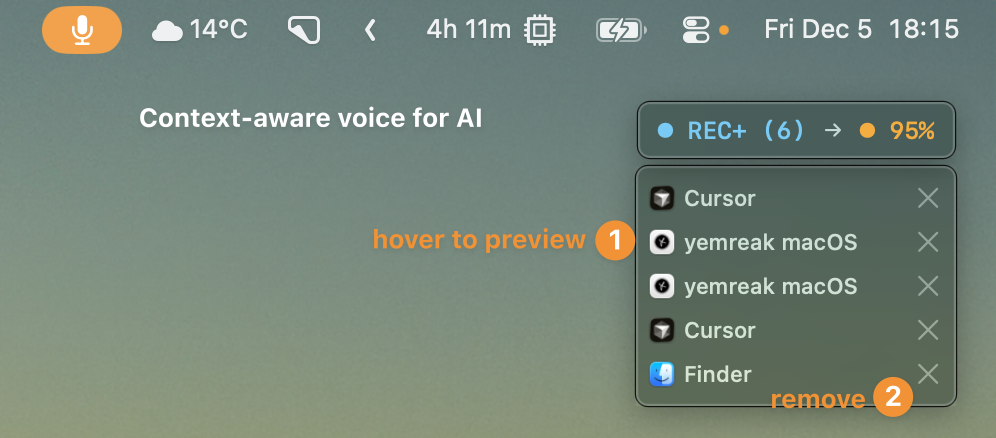
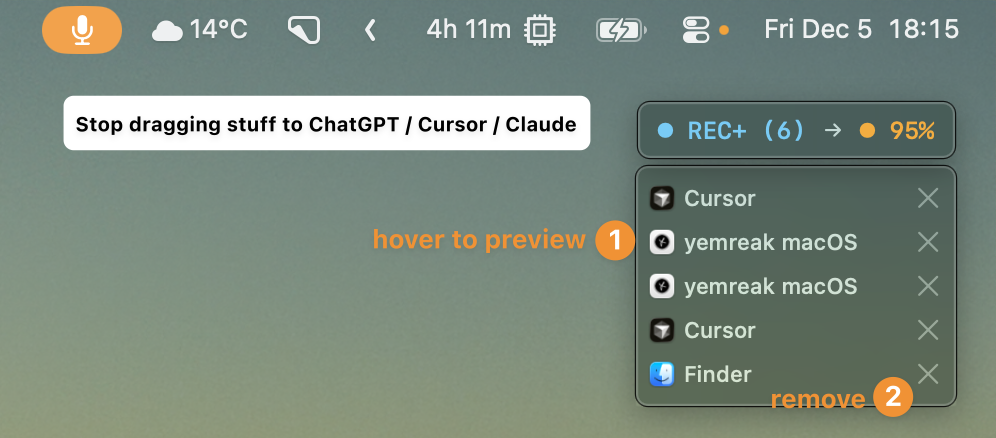
Release v0.4.1

Changed region(s): [[0.0622, 0.2078, 0.5914, 0.3562]]

diff --git a/README.md b/README.md
@@ -1,81 +1,19 @@
-# yemreak macOS
+# Voice first clipboard for your AI
 
-![Cover](images/v0.4.0/recording.png)
+Copy while talking. It goes to the right place.
 
-Voice tools for your Mac _— and a few extras I built for myself_
+## How it works
 
-- Talk to AI with your clipboard context `Option+A`
-- Voice to text that works offline `Option+Shift+A`
-- Know when you've been working too long
-- Make your screen extra bright for outdoor use
-
-## Features
-
-- **Dictation** - Voice to text, clipboard mode, choose your language
-- **Display** - Go brighter than normal, control with F1/F2
-- **Session** - Track your screen time, get reminded to take breaks
-- **Tools** - Lock your keyboard to clean it
-
-### Dictation
-
-- **Clipboard Mode** `Option+A` - Include what you copied for AI conversations
-- **Voice Dictation** `Option+Shift+A` - Voice to text, paste directly
-
-![Recording](images/v0.4.0/recording.png)
-
-![Dictation History](images/v0.4.0/dictation-history.png)
-
-### Session
-
-- **Session Tracking** - See how long you've been at your computer
-- **Idle Alerts** - Get reminded when you've been inactive too long
-- **Sleep Detection** - Automatically resets after overnight breaks
-
-![Session](images/v0.4.0/session.png)
-
-### Display
-
-- **Extra Brightness** - Push your display brighter than the normal limit
-- **Display Control** - F1/F2 to adjust, turn off your built-in display
-
-![Display Menu](images/v0.4.0/display-menu.png)
-
-### Tools
-
-- **Keyboard Cleaner** - Lock your keyboard to safely wipe it down
-
-![Tools](images/v0.4.0/tools.png)
-
-![Keyboard Cleaner](images/v0.4.0/keyboard-cleaner-panel.png)
-
-### About
-
-- **Auto Updates** - Always stay up to date
-
-![About](images/v0.4.0/about.png)
-
-
-## Installation
-
-1. Download `yemreak-macOS.dmg` from [Releases](https://github.com/yemreak/yemreak-macos/releases)
-2. Drag to Applications
-3. Grant permissions: Microphone, Accessibility
+`⌥A` → Start talking → Copy anything → It inserts at the right timestamp → `⌥A` → Done
 
 ## Requirements
 
 - macOS 14.0+
 - Apple Silicon (M1/M2/M3)
 
-## Updates
+## ...and more
 
-Menu Bar -> Check for Updates...
-
-## Keyboard Shortcuts
-
-| Shortcut | Action |
-|----------|--------|
-| `Option+A` | Clipboard mode |
-| `Option+Shift+A` | Voice dictation |
-| `Option+Escape` | Cancel transcription |
-| `Escape` | Cancel recording |
-| `F1/F2` | Brightness down/up |
+- Offline dictation
+- Session tracking
+- Extra brightness
+- Keyboard cleaner

diff --git a/CHANGELOG.md b/CHANGELOG.md
@@ -1,5 +1,30 @@
 # Changelog
 
+## [0.4.1] - 2025-12-06
+
+### New Features
+- **Caps Lock Hyper Key**: Use Caps Lock as a modifier (Caps+A, Caps+B, etc.)
+- **HTTP Batch Requests**: Agent-friendly API with array-only format
+- **Dictation Hotkeys**: Assign hotkeys to switch language (Auto/English/Turkish) and model (Fast/Accurate)
+
+### Improvements
+- Hotkey panel opens with "All" filter by default
+- Extended keyboard key mappings for special characters
+- ESC closes hotkey panel when not recording
+- Adaptive clipboard polling (100ms during recording, 500ms idle)
+- "Report Issue..." menu item for quick GitHub feedback
+- "Open Logs" moved to Tools menu
+
+### Fixes
+- Hotkey registration and conflict detection fixed
+- Own paste no longer captured in clipboard history
+- ESC properly cancels transcription and clears clipboard toasts
+- Model switch blocked during recording/transcribing (prevents crash)
+- Stuck hint now shows above pipeline without overlap
+- ESC consumed during hotkey recording (no longer passes to other apps)
+
+---
+
 ## [0.4.0] - 2025-12-05
 
 ### Transcription is Now Lightning Fast
